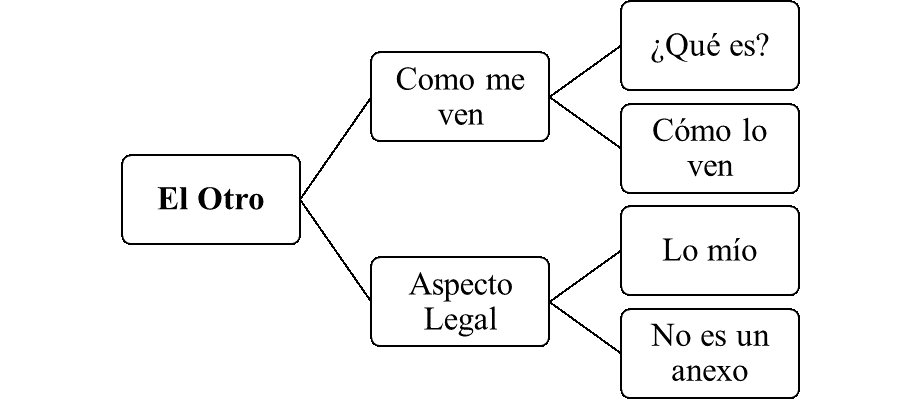
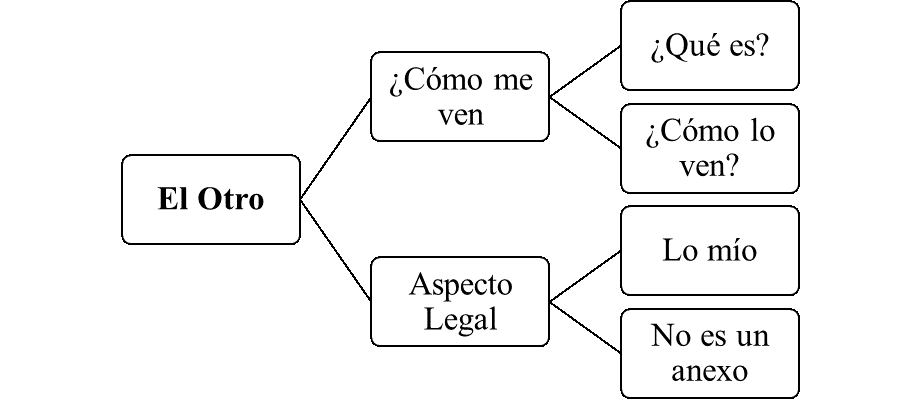
Correcciones menores a diagramas y a contenido del intro
Todas las menciones del intro a otros capítulos cambiadas a referencias.

Changed region(s): [[0.4256, 0.1474, 0.5776, 0.2359], [0.6992, 0.2948, 0.8512, 0.3538], [0.7296, 0.3833, 0.8208, 0.4423]]

diff --git a/intro.tex b/intro.tex
@@ -147,9 +147,13 @@ de las personas Trans desde una mirada psicológica no clínica, se plantea la
 exploración de las vivencias de las personas Trans para poder dar respuesta a la
 siguiente pregunta de investigación:
 
+\begin{slshape}
+  \begin{adjustwidth}{2em}{2em}
 ¿Cómo influye el proceso de transición de género en la construcción de la
 identidad en un grupo de personas transgénero que residen en el Área
 Metropolitana de Caracas? y ¿Qué lugar ocupa esa transición en su vida cotidiana?
+  \end{adjustwidth}
+\end{slshape}
 
 Estos aspectos llevan a reflexionar acerca del transgénero y transexual como un
 campo de estudio de suma amplitud y complejidad, por lo que resulta necesario
@@ -177,17 +181,20 @@ Posteriormente, se describen conceptos que vienen a representar el eje central
 de la investigación.
 
 En el Capítulo~\ref{ch:metodologia} se plantea la perspectiva
-metodológica de la
-investigación.
+metodológica de la investigación.
 Esta se define como de tipo cualitativa, con enfoque fenomenológico, mediante el
 empleo de la entrevista a profundidad, con el propósito fundamental de conocer y
 aprehender el fenómeno desde la perspectiva de cada participante, en
 concordancia con la pregunta y objetivos planteados.
 
-En el Capítulo IV se analizan los contenidos construidos en las entrevistas
-generando, de acuerdo a los hallazgos, las categorías de análisis pertinentes
-para su posterior discusión y redacción de las conclusiones del trabajo de
-investigación.
-El Capítulo V están destinados a la discusión de hallazgos y a las
-conclusiones de la investigación respectivamente.
-También abarca las limitaciones que encontró la presente investigación.
+En el Capítulo~\ref{ch:informacion} se analizan los contenidos construidos en
+las entrevistas generando, de acuerdo a los hallazgos, las categorías de
+análisis pertinentes para su posterior discusión y redacción de las conclusiones
+del trabajo de investigación.
+
+El Capítulo~\ref{ch:conclusion} están destinados a la discusión de hallazgos y a
+las conclusiones de la investigación respectivamente. También abarca las
+limitaciones que encontró la presente investigación.
+
+Al final del trabajo de investigación se pueden encontrar como apéndices el
+guion de entrevista utilizado y un modelo del consentimiento informado.

diff --git a/frontmatter.tex b/frontmatter.tex
@@ -15,7 +15,7 @@ en el estudio de casos para poder explorar el foco de dicha investigación.
 La recolección de datos se realizó a través de entrevistas a profundidad, las
 cuales fueron realizadas a adultos mayores de 18 años de ambos sexos que se
 identifiquen a sí mismos como transgénero y fueron codificadas empleando el
-programa ATLAS.TI\@.
+programa ATLAS.ti\@.
 Dicha codificación tuvo como resultado 6 categorías que constituyen elementos
 que permiten la construcción de identidad en personas transgénero.
 Se pudo observar una reafirmación respecto a esta, es decir, la identidad de
@@ -39,7 +39,7 @@ It made use of a qualitative methodology with a phenomenological perspective, by
 making use of a case study to explore the focus of the present investigation.
 Data collection was done through in-depth interviews, which were conducted to
 adults over 18 who identify themselves as transgenders or transsexuals and it
-was codified using the program ATLAS\@.TI\@.
+was codified using the program ATLAS.ti\@.
 This coding resulted in 6 categories that constitute elements that allow the
 construction of identity in trans people.
 Trough this the research was able to reassure that identity it's largely

diff --git a/discusion.tex b/discusion.tex
@@ -7,7 +7,7 @@ Estas entrevistas fueron transcritas para su análisis en el texto.
 Los elementos expresados por los participantes en las entrevistas fueron
 codificados y organizados en las categorías y subcategorías que se pueden
 observar en la figura~\ref{fig:categorias}.
-Las entrevistas fueron codificadas empleando el programa ATLAS.TI en su versión
+Las entrevistas fueron codificadas empleando el programa ATLAS.ti en su versión
 7.5.7 proceso que facilitó la categorización de la información recolectada a lo
 largo de las entrevistas.
 

diff --git a/metodologia.tex b/metodologia.tex
@@ -574,7 +574,7 @@ Categorías                           & Sub-categorías      \\ \midrule
 \end{table}
 
 Esta clasificación y etiquetado fue realizado utilizando como herramienta el
-programa informático ATLAS.ti en su Version 7.5.7 (2012).
+programa informático ATLAS.ti en su Version 7.5.7 (2012)\@.
 
 El siguiente paso fue la vinculación de los códigos elaborados con los
 planteamientos teóricos para intentar aproximarnos a las explicaciones mejor

diff --git a/tesis.tex b/tesis.tex
@@ -21,7 +21,7 @@
     \cleardoublepage\tableofcontents
     \clearpage\listoftables*
     \listoffigures*
-    \mainmatter\include{intro} % TODO referencias a capítulos cambiarán
+    \mainmatter\include{intro}
     \include{problema} % TODO Pendiente
     \include{objetivos} % Fijados, objetivos definitivos
     \include{justificacion} % TODO falta arreglar cosas
